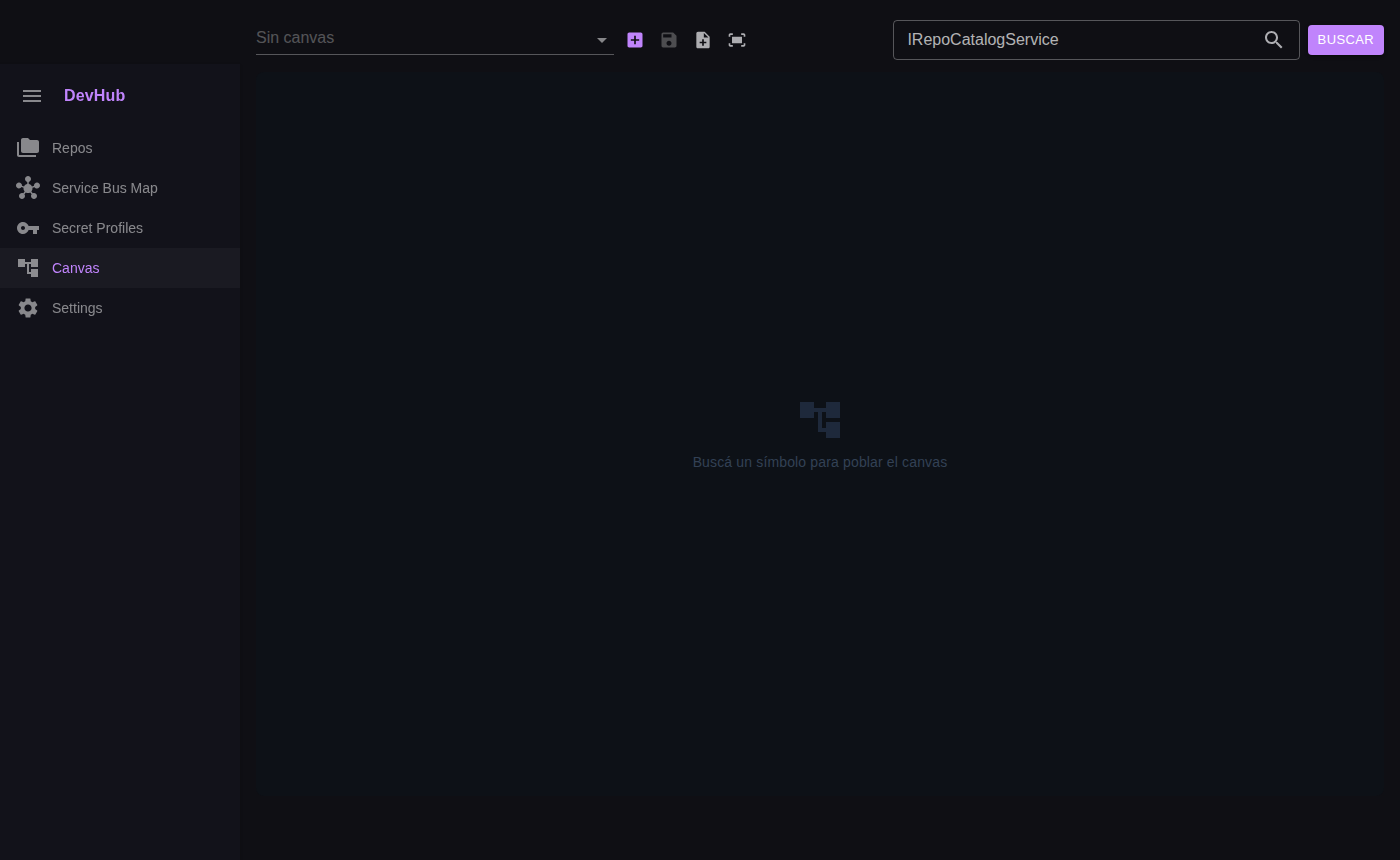
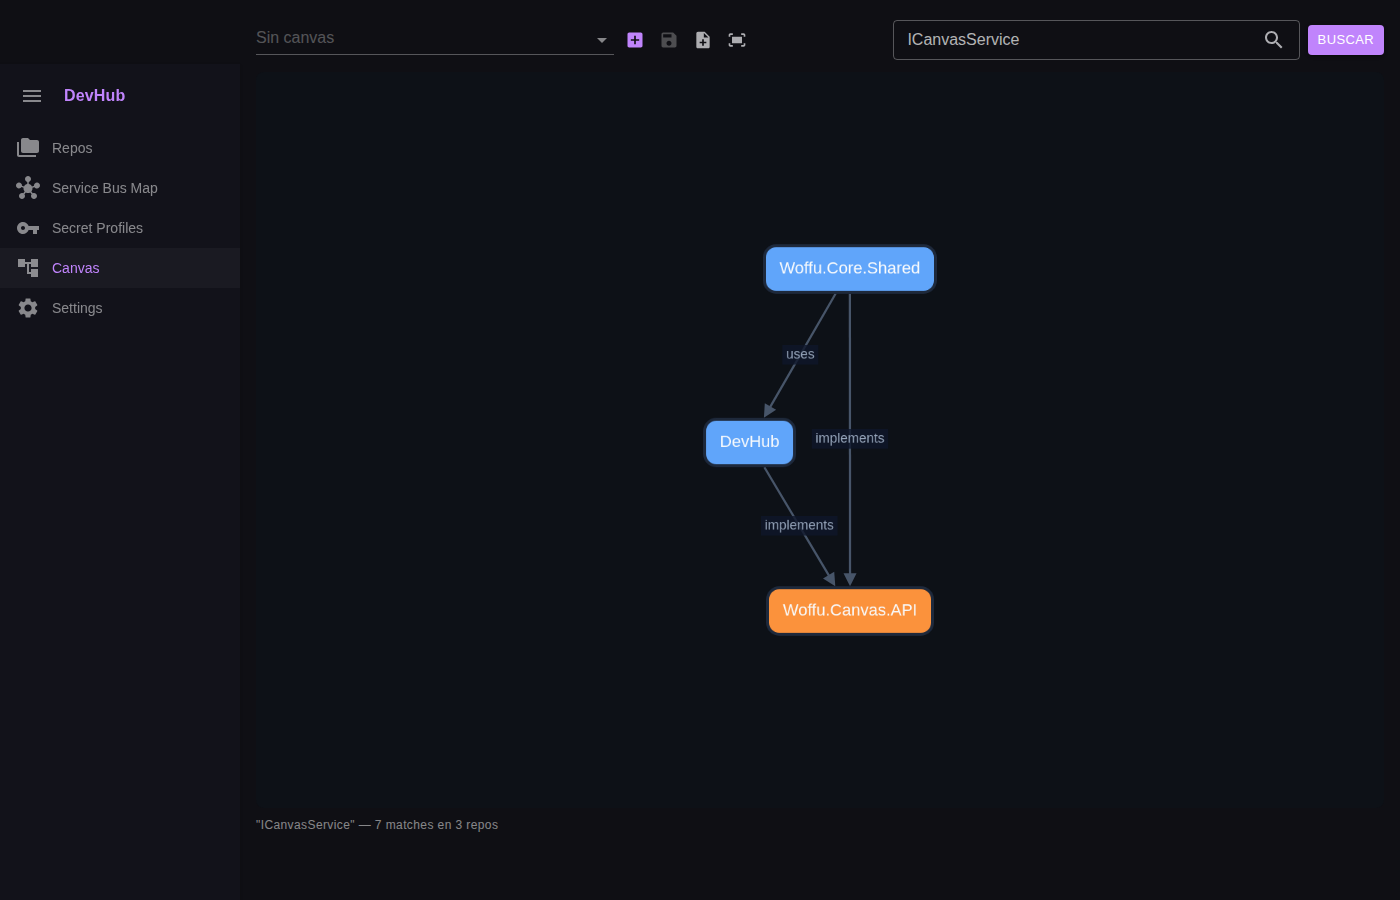
fix: migration nvarchar(max)→TEXT for SQLite, cap canvas node zoom
- Fix AddCustomCommandIcon migration: SQLite doesn't support nvarchar(max), use TEXT
- Cap Cytoscape zoom to 1.5 after layout so single nodes don't fill the screen
- Update canvas-search screenshot showing 3-node graph with implements/uses edges

https://claude.ai/code/session_01AENRcLvqRctACTLdEf7eKd

diff --git a/src/DevHub/wwwroot/js/canvas-interop.js b/src/DevHub/wwwroot/js/canvas-interop.js
@@ -93,6 +93,7 @@ window.canvasInterop = (function () {
                 ],
                 layout: { name: 'cose', padding: 40, nodeRepulsion: 8000 },
                 wheelSensitivity: 0.3,
+                maxZoom: 2,
             });
 
             cy.on('tap', 'node', function (evt) {
@@ -114,7 +115,11 @@ window.canvasInterop = (function () {
             const elements = JSON.parse(elementsJson);
             cy.elements().remove();
             cy.add(elements);
-            cy.layout({ name: 'cose', padding: 40, nodeRepulsion: 8000 }).run();
+            const layout = cy.layout({ name: 'cose', padding: 40, nodeRepulsion: 8000 });
+            layout.on('layoutstop', () => {
+                if (cy.zoom() > 1.5) { cy.zoom(1.5); cy.center(); }
+            });
+            layout.run();
         },
 
         getGraph() {

diff --git a/src/DevHub/Migrations/20260426211056_AddCustomCommandIcon.cs b/src/DevHub/Migrations/20260426211056_AddCustomCommandIcon.cs
@@ -13,7 +13,7 @@ namespace DevHub.Migrations
             migrationBuilder.AddColumn<string>(
                 name: "Icon",
                 table: "CustomRepoCommands",
-                type: "nvarchar(max)",
+                type: "TEXT",
                 nullable: false,
                 defaultValue: "terminal");
         }
